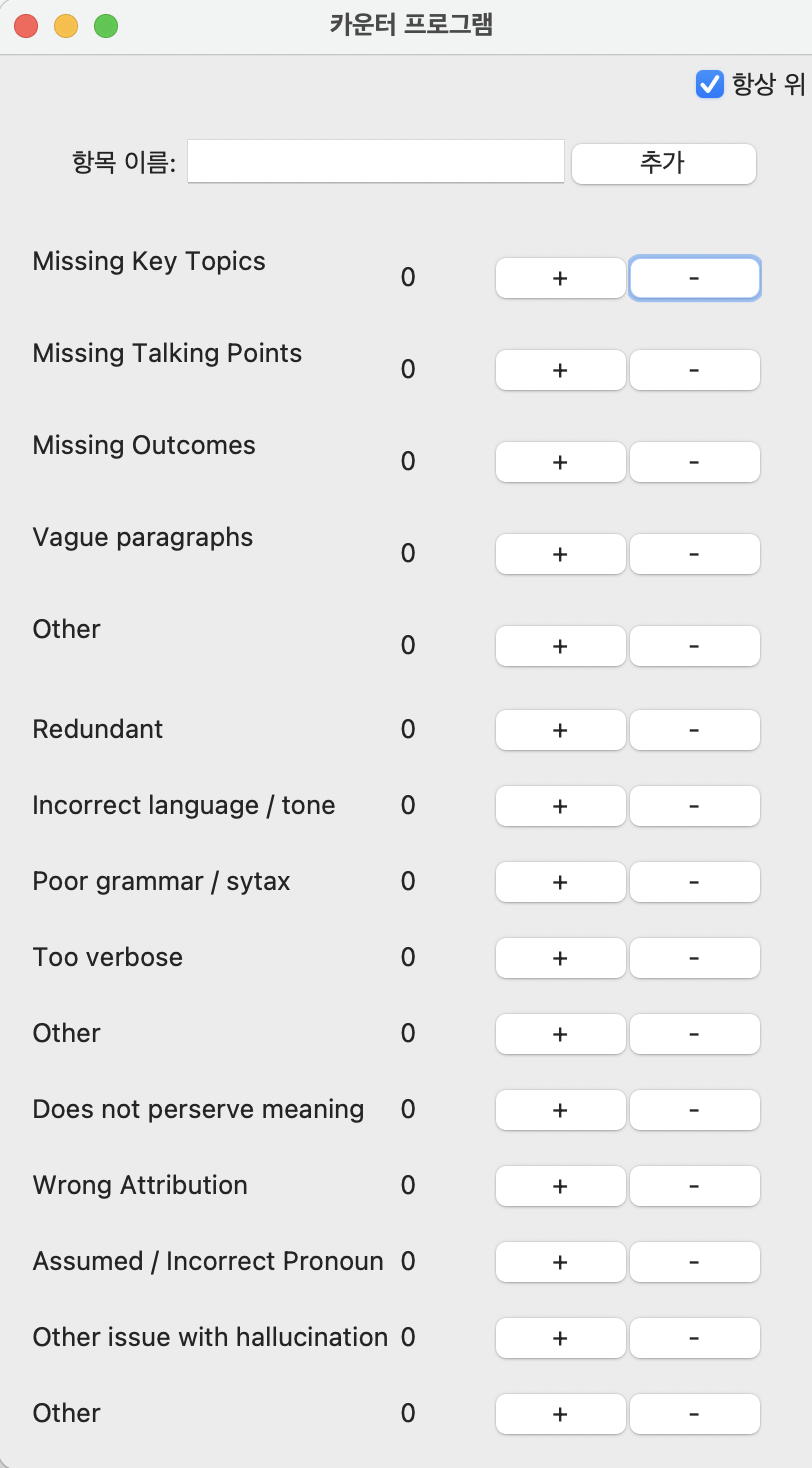
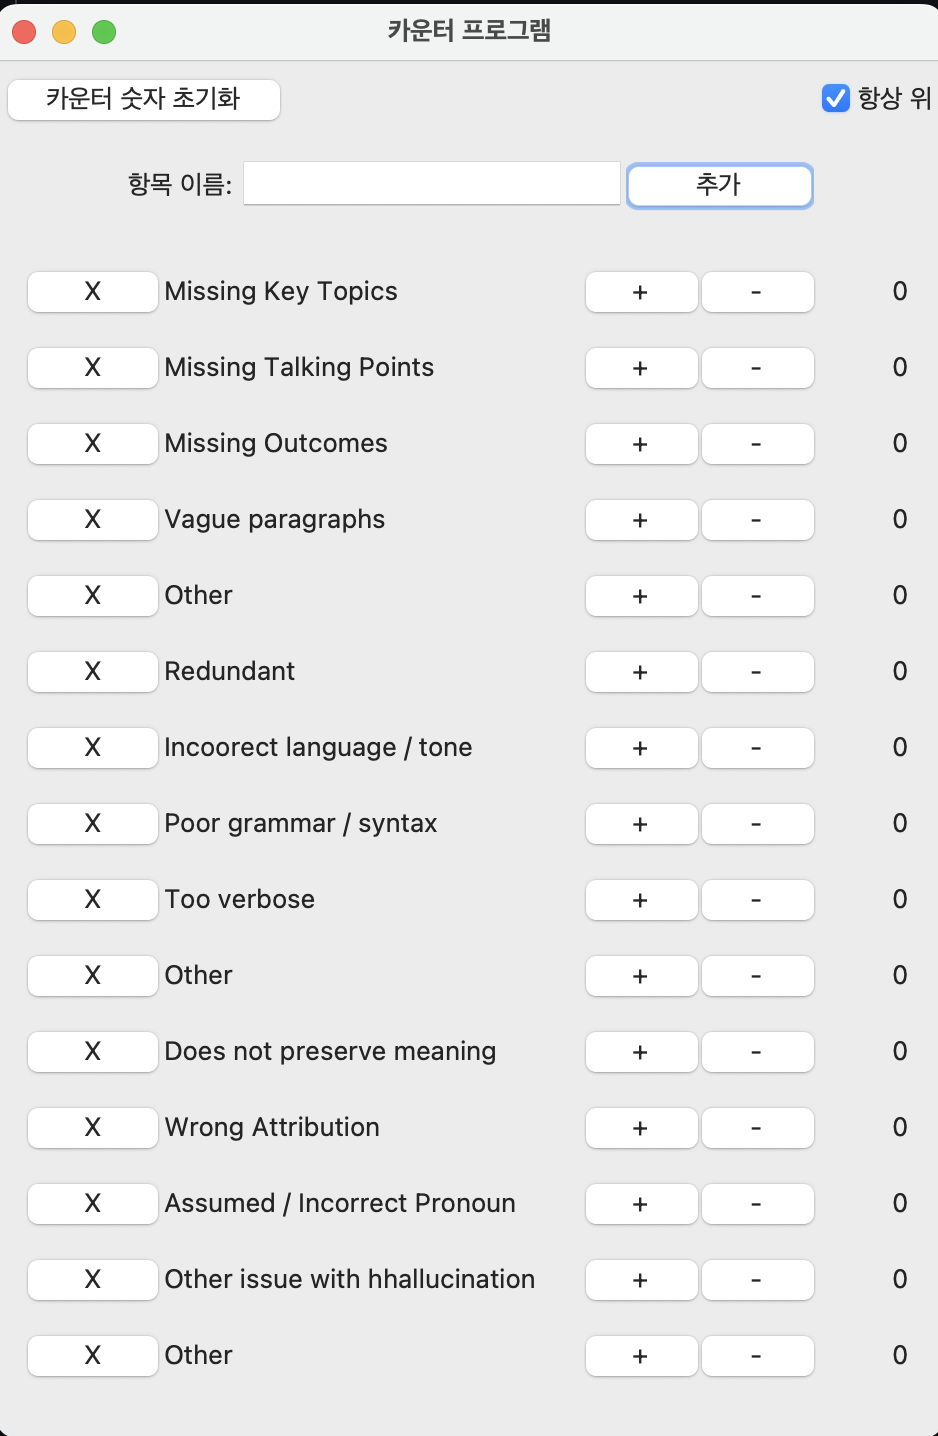
program fixed

diff --git a/pycounter.py b/pycounter.py
@@ -18,13 +18,13 @@ def add_item():
             item_frame, text="X", width=3, command=delete_item)
         delete_button.pack(side='left')
 
-        label = ttk.Label(item_frame, text=item_name, anchor='w')
-        label.pack(side='left', fill='x', expand=True)
+        label = ttk.Label(item_frame, text=item_name,
+                          width=15)  # label width 수정
+        label.pack(side='left')
 
         count = 0
-        count_label = ttk.Label(
-            item_frame, text=str(count), width=5, anchor='e')
-        count_label.pack(side='right')
+        count_label = ttk.Label(item_frame, text=str(count), width=5)
+        count_label.pack(side='left')
 
         def increment():
             nonlocal count
@@ -35,12 +35,14 @@ def add_item():
             nonlocal count
             count -= 1
             count_label.config(text=str(count))
-        minus_button = ttk.Button(
-            item_frame, text="-", width=2, command=decrement)
-        minus_button.pack(side='right')
+
         plus_button = ttk.Button(item_frame, text="+",
-                                 width=2, command=increment)
-        plus_button.pack(side='right')
+                                 width=3, command=increment)
+        plus_button.pack(side='left')
+
+        minus_button = ttk.Button(
+            item_frame, text="-", width=3, command=decrement)
+        minus_button.pack(side='left')
 
         item_entry.delete(0, tk.END)
         update_item_order()
@@ -50,31 +52,38 @@ def toggle_topmost():
     root.attributes('-topmost', topmost_var.get())
 
 
+def on_drag_start(event):
+    widget = event.widget
+    widget._drag_start_y = event.y
+    widget._drag_start_index = items_frame.winfo_children().index(widget)
+
+
+def on_drag_motion(event):
+    widget = event.widget
+    y = event.y - widget._drag_start_y
+    if abs(y) > 5:  # 최소 이동 거리
+        index = items_frame.winfo_children().index(widget)
+        new_index = index + (1 if y > 0 else -1)
+        if 0 <= new_index < len(items_frame.winfo_children()):
+            items_frame.winfo_children()[index].pack_forget()
+            items_frame.winfo_children()[index].pack(
+                before=items_frame.winfo_children()[new_index], fill='x')
+            widget._drag_start_y = event.y
+
+
 def update_item_order():
     for i, child in enumerate(items_frame.winfo_children()):
         child.lift()
 
 
-def reset_counters():
-    for item_frame in items_frame.winfo_children():
-        count_label = item_frame.winfo_children()[2]
-        count_label.config(text="0")
-
-
 root = tk.Tk()
 root.title("카운터 프로그램")
 
-# 최상위 표시 체크박스 및 초기화 버튼 프레임
-top_frame = ttk.Frame(root, padding=5)
-top_frame.pack(fill='x')
-
-reset_button = ttk.Button(top_frame, text="카운터 숫자 초기화", command=reset_counters)
-reset_button.pack(side='left')
-
+# 최상위 표시 체크박스
 topmost_var = tk.BooleanVar()
 topmost_check = ttk.Checkbutton(
-    top_frame, text="항상 위", variable=topmost_var, command=toggle_topmost)
-topmost_check.pack(side='right')
+    root, text="항상 위", variable=topmost_var, command=toggle_topmost)
+topmost_check.pack(pady=(5, 5), padx=(10, 10), anchor='w')
 
 # 항목 추가 입력 부분
 add_frame = ttk.Frame(root, padding=10)
@@ -92,5 +101,8 @@ add_button.pack(side='left')
 # 항목 표시 부분
 items_frame = ttk.Frame(root, padding=10)
 items_frame.pack(fill='both', expand=True)
+
+root.bind("<B1-Motion>", on_drag_motion)
+root.bind("<ButtonPress-1>", on_drag_start)
 
 root.mainloop()

diff --git a/readme.md b/readme.md
@@ -8,13 +8,14 @@
 
 - 항목 추가 및 이름 설정 (Add items and set their names)
 - 각 항목별 + 및 - 버튼을 통한 카운트 증감 (Increment/decrement count for each item using + and - buttons)
+- x 버튼으로 항목 삭제 (Delete an item on the list)
 - 항상 위 옵션 (Always on top option)
 
 ## 설치 및 실행(Installation and Use)
 
 1.  [프로그램 다운로드](https://github.com/saramjh/pycounter/archive/refs/heads/main.zip)에서 최신 릴리즈를 다운로드합니다. (Download the latest release from the [Program download](https://github.com/saramjh/pycounter/archive/refs/heads/main.zip).)
 2.  압축 파일(.zip 등)을 해제합니다. (Unzip the downloaded file (.zip, etc.).)
-3.  dist 디렉토리 내의 실행 파일(`pycounter` 또는 `pycounter.app`)을 실행합니다. (Run the executable file (`pycounter` or `pycounter.app`).)
+3.  dist 디렉토리 내의 실행 파일(윈도우용 `pycounter` 또는 맥용 `pycounter.app`)을 실행합니다. (Run the executable file (`pycounter` or `pycounter.app`).)
 
 또는, 파이썬이 설치되어 있는 경우 소스 코드를 직접 실행할 수 있습니다. (Alternatively, if Python is installed, you can run the source code directly.)
 
